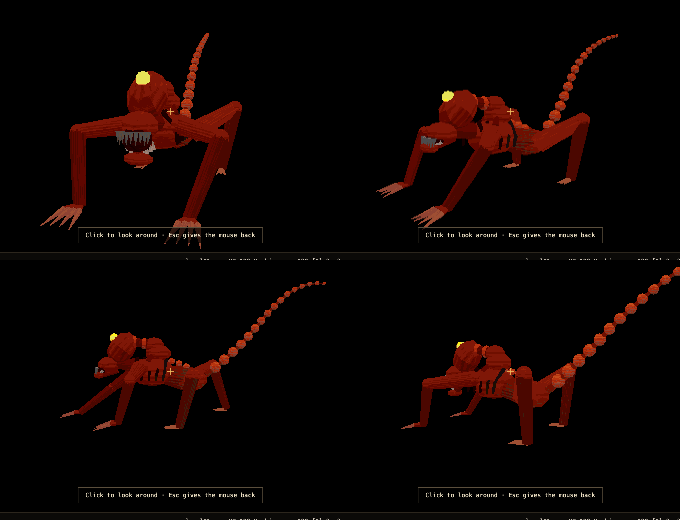
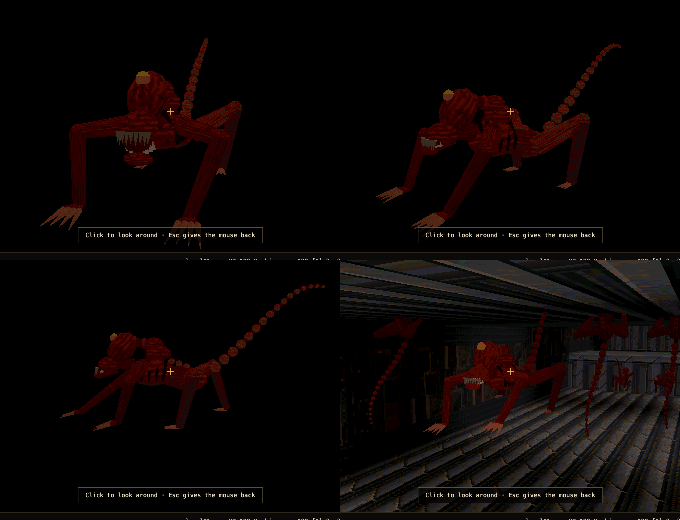
The ant: darker and grittier, with grime in its muscle and a dull ember at rest

diff --git a/client/ant.js b/client/ant.js
@@ -34,11 +34,11 @@ const ballMesh = (rgb) => new Mesh().ellipsoid([0, 0, 0], [1, 1, 1], 5, 8, rgb).
 const bladeMesh = (rgb) => new Mesh().hexa([[0, -0.15, -0.5], [1, -0.05, -0.1], [1, 0.05, -0.1], [0, 0.15, -0.5], [0, -0.15, 0.5], [1, -0.05, 0.1], [1, 0.05, 0.1], [0, 0.15, 0.5]], rgb).done();
 
 // one kit per tint (ant_draw tints ants by aitype), coloured from that tint of its standing frame
-const VARIANT_BODY = [null, [0.22, 0.12, 0.13], [0.42, 0.16, 0.08], [0.62, 0.3, 0.28], [0.45, 0.06, 0.05], [0.5, 0.1, 0.08], [0.36, 0.2, 0.12], [0.27, 0.08, 0.08], [0.66, 0.15, 0.13]];
+const VARIANT_BODY = [null, [0.22, 0.12, 0.13], [0.42, 0.16, 0.08], [0.62, 0.3, 0.28], [0.45, 0.06, 0.05], [0.5, 0.1, 0.08], [0.36, 0.2, 0.12], [0.27, 0.08, 0.08], [0.44, 0.09, 0.08]]; // design 8: dark blood red (Jared: "more gritty and less bright")
 // Jared: "that image on the left hand side is your best bet" (the creature on Abuse's box art): design 8
 export const DEFAULT_ANT = 8;
 // horn: the skin's colour lightened toward bone, so claws, pincers and teeth belong to the same creature
-const horn = (body, k) => body.map((v, i) => Math.min(1, v * 1.35 + k * [0.62, 0.52, 0.42][i]));
+const horn = (body, k) => body.map((v, i) => Math.min(1, v * 1.25 + k * [0.42, 0.34, 0.24][i])); // stained, not clean bone
 function kit(e, g, palette, variant = 0) {
   const tint = g.assets.tintFor(e);
   return built(`${variant}:${tint ? g.assets.tints.ant_draw.indexOf(tint) : 'plain'}`, () => {
@@ -57,8 +57,8 @@ function kit(e, g, palette, variant = 0) {
       silver: boneMesh(variant === 7 ? horn(body, 0.62) : [0.82, 0.84, 0.86], 0.12), white: boneMesh(variant === 7 ? horn(body, 0.45) : [0.86, 0.82, 0.72], 0.6), whiteBall: ballMesh([0.86, 0.82, 0.72]),
       hornClaw: boneMesh(horn(body, 0.5), 0.15),
       // the box-art creature: flesh, pink highlights, dark creases, ivory teeth, dark gums, a tapering cranium
-      flesh: boneMesh(body, 0.7), fleshBall: ballMesh(body), pink: ballMesh(body.map((v, i) => Math.min(1, v * 1.25 + [0.12, 0.1, 0.09][i]))),
-      crease: boneMesh(body.map((v) => v * 0.35), 0.6), cranium: boneMesh(body, 0.45), ivory: boneMesh([0.86, 0.8, 0.68], 0.1),
+      flesh: boneMesh(body, 0.7), fleshBall: ballMesh(body), pink: ballMesh(body.map((v, i) => Math.min(1, v * 1.12 + [0.05, 0.035, 0.03][i]))),
+      crease: boneMesh(body.map((v) => v * 0.25), 0.6), cranium: boneMesh(body, 0.45), ivory: boneMesh([0.58, 0.5, 0.36], 0.1),
       gums: ballMesh([0.3, 0.04, 0.04]), ember: ballMesh([1, 0.55, 0.15]), sinew: boneMesh(body.map((v) => v * 0.8), 0.5), mouth: ballMesh([0.06, 0.01, 0.01]), slit: ballMesh([0.35, 0.05, 0.03]), slitGlow: ballMesh([0.9, 0.25, 0.08]),
       socket: ballMesh([0.03, 0.02, 0.02]), redEye: ballMesh([1, 0.12, 0.06]), orangeEye: ballMesh([1, 0.55, 0.1]), yellowEye: ballMesh([1, 0.85, 0.2]),
       petal: bladeMesh(shade(body, 0.8)), crest: bladeMesh(bone), throat: ballMesh([1, 0.2, 0.08]), acid: ballMesh([0.5, 1, 0.3]),
@@ -173,7 +173,7 @@ export function antModel(s, ctx) {
   // gaunt limbs held high in a spider's crouch, elbows and knees above the body, long-fingered claws; ribs
   // under the skin, a ridge of vertebrae; a long beaded tail of vertebrae arching up and back.
   function boxArt() {
-    const M = { skin: 0.55, skinKind: 2, skinScale: 0.9 }, Mb = { skin: 0.5, skinKind: 2, skinScale: 0.55 };
+    const M = { skin: 0.9, skinKind: 2, skinScale: 0.9 }, Mb = { skin: 0.85, skinKind: 2, skinScale: 0.55 };
     const fb = (a, b, r, mesh = K.flesh) => bone(mesh, a, b, r, M);
     const fball = (c, r, mesh = K.fleshBall) => ball(mesh, c, r, Mb);
     const bob = P.stride ? Math.abs(Math.sin(P.phase)) * 2 : 0;
@@ -228,8 +228,8 @@ export function antModel(s, ctx) {
     const muzzle = add(breech, mul(aimDir, 20 - firing * 2.5));
     fb(breech, muzzle, 2.6, K.sinew);
     for (let i = 1; i <= 3; i++) ball(K.pink, add(breech, mul(aimDir, i * 5)), [1.6, 3, 3], Mb); // ribbing along the barrel
-    lit(K.ember, muzzle, [2, 2.4, 2.4], 2.2);
-    glowBall(K.ember, muzzle, 2.4 + 2.5 * firing, 0.6 + 0.3 * Math.sin(t * 4) + 1.4 * firing);
+    lit(K.ember, muzzle, [2, 2.4, 2.4], 0.55 + 1.7 * firing); // a dull ember at rest, white-hot when it fires
+    glowBall(K.ember, muzzle, 2 + 3 * firing, 0.18 + 0.08 * Math.sin(t * 4) + 1.8 * firing);
     // the tail: sixteen vertebrae, beaded, arching up and back, swaying
     let tp = add(hip, [-8, 0, 2]), ang = Math.PI - 0.55 - P.tailUp * 0.15;
     for (let i = 0; i < 16; i++) {

diff --git a/engine/detail.js b/engine/detail.js
@@ -84,7 +84,7 @@ export function organicSkin() {
 }
 
 // Muscle: sinew for the box-art creature (Jared's reference: Abuse's cover). Long fibres running along X
-// (dark grooves between them, wavering), bundles, and a mottled sheen. Laid on unit bone meshes, the
+// (dark grooves between them, wavering), bundles, a mottled sheen, dark grime blotches and dirt specks. Laid on unit bone meshes, the
 // fibres run along each limb.
 export function muscleSkin() {
   const N = DETAIL_SIZE, out = new Uint8Array(N * N);
@@ -93,8 +93,12 @@ export function muscleSkin() {
       const wy = y + 6 * noise(x, y, 64, 51) + 2 * noise(x, y, 16, 52); // fibres waver
       const fibre = 0.5 + 0.5 * Math.cos(wy * 0.85); // thin fibres
       const bundle = 0.5 + 0.5 * Math.cos(wy * 0.12 + noise(x, y, 64, 53) * 3); // bundles of them
-      let v = 0.55 + 0.22 * fibre + 0.23 * bundle;
-      v *= 0.85 + 0.2 * noise(x, y, 32, 54) + 0.05 * noise(x, y, 4, 55);
+      let v = 0.4 + 0.3 * fibre * fibre + 0.3 * bundle; // deeper grooves between the fibres
+      v *= 0.8 + 0.25 * noise(x, y, 32, 54) + 0.06 * noise(x, y, 4, 55);
+      // grime: dark blotches, and dirt specks
+      const blot = noise(x, y, 32, 56) * 0.6 + noise(x, y, 8, 57) * 0.4;
+      if (blot > 0.58) v *= 1 - Math.min(0.55, (blot - 0.58) * 2.6);
+      if (hash(x, y, 58) > 0.965) v *= 0.45;
       out[y * N + x] = Math.max(0, Math.min(255, Math.round(v * 220)));
     }
   }

diff --git a/LOOP_LOG.md b/LOOP_LOG.md
@@ -297,3 +297,10 @@ Newest last. One entry per task: what changed, the evidence, notes for the next 
   and jaw are about 3/4 the size. A fleshy cannon grows from the upper back (mount, sinew braces, breech, a ribbed
   barrel forward over the head, the orange glowing muzzle that was on the cover); it kicks and flares on
   weapon_fire / ceil_fire. docs/ant-boxart.png updated.
+
+## The ant: darker and grittier
+Jared: "creature looks great just needs some more dark texture to make it more gritty and less bright holistically".
+The muscle skin has deeper grooves between the fibres, dark grime blotches and dirt specks, laid on at 0.85–0.9
+strength (was 0.5–0.55). The flesh is a dark blood red (0.44, 0.09, 0.08 from 0.66, 0.15, 0.13), the highlights are
+muted, the creases deeper, the teeth and claws stained, not clean bone, and the muzzle on its back is a dull ember
+at rest that flares only when it fires. Checked by screenshot solo and in level 1; 58/58 tests.
